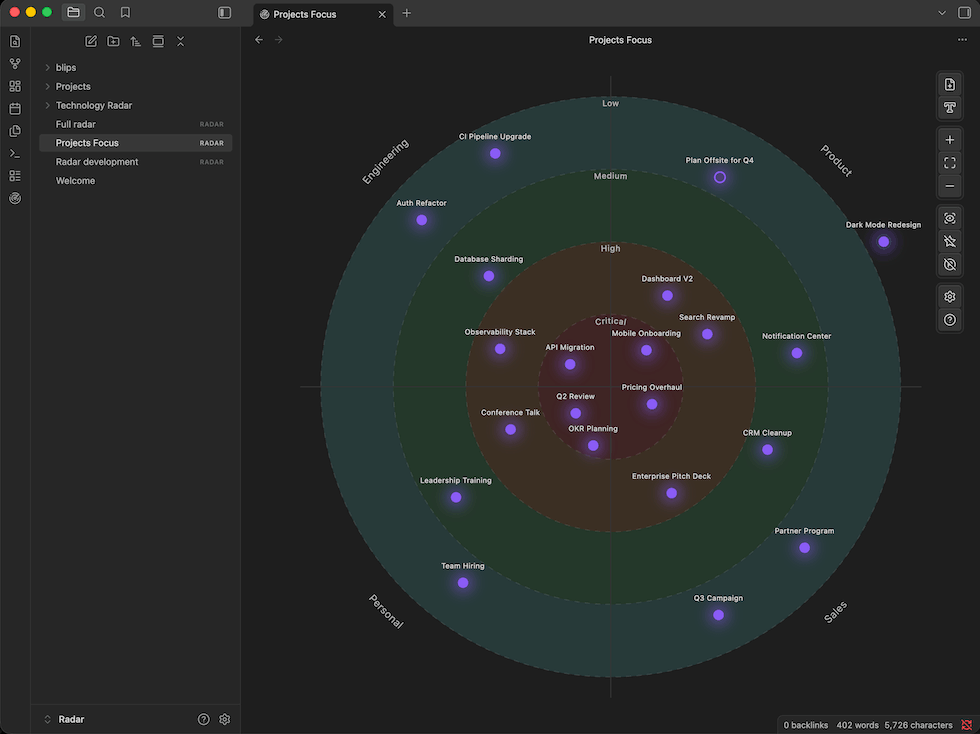
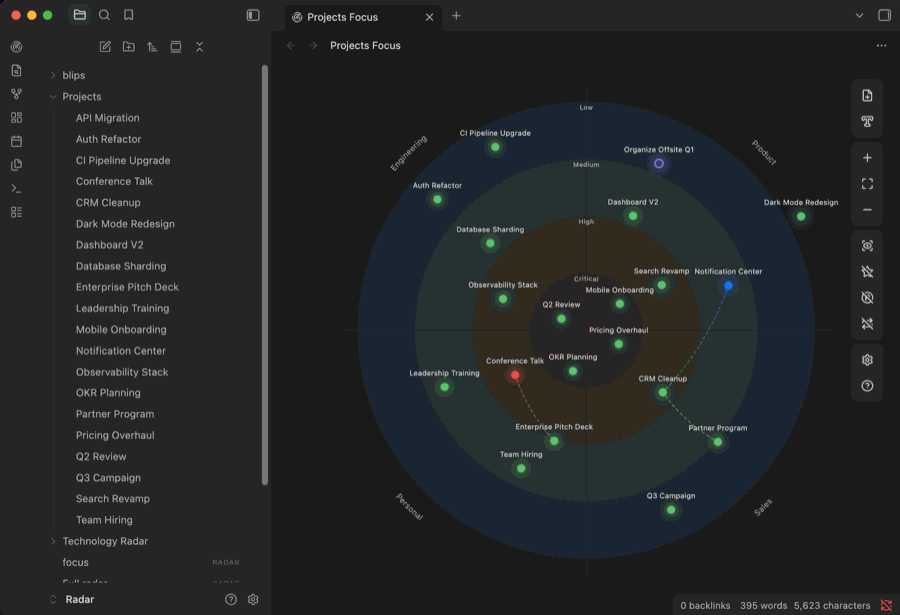
version bump and updated README

diff --git a/README.md b/README.md
@@ -4,6 +4,11 @@
 
 Visualize your notes and ideas on a radar. Group them by topic, prioritize by proximity to the center, and keep focus when juggling multiple areas at once. Do not lose sight of items that might be hiding good opportunities.
 
+> **New in 1.0.0**
+> - You can visualize backlinks between note blips 
+> - Blip setting action bar for better usability, just click on a blip to open
+> - Fixes for lint issues
+
 ![Sample: Project Focus](docs/radar-sample-project-focus.png)
 
 ## Example usage
@@ -21,16 +26,12 @@ Still not sure? Use the [skill](skills/obsidian-radar/SKILL.md) and ask your ass
 
 ## Features
 
-> **New in 0.9.3**
-> - Export radar as an image; 
-> - Double-click to open note blip or rename text blip
-> - Rename text blips
-
 - **Radar visualization** — items (blips) are placed on a radar divided into concentric priority rings and category segments; drag, pan and zoom freely
 - **Two blip types** — link a blip to a vault note, or create a standalone text blip
 - **Priority levels** — 1–8 configurable levels; the closer to the center, the higher the priority
 - **Category segments** — 3–8 configurable segments to group blips by topic or area
 - **Convert text blip to note** — promote any text blip to a linked vault note in one click
+- **Visualize backlinks** — it connects two blips with a line when there's a backlink between the notes
 - **Export as image** — save a high-resolution PNG snapshot of the radar to your vault
 - **Easy to use** — drag notes from the file explorer directly onto the radar, access notes easily
 - **Customizable** — set colors per priority level, per category, and per blip; adjust blip size and label font size. Add new categories and priority levels without changing blip prioritization. Support multiple visualization modes.
